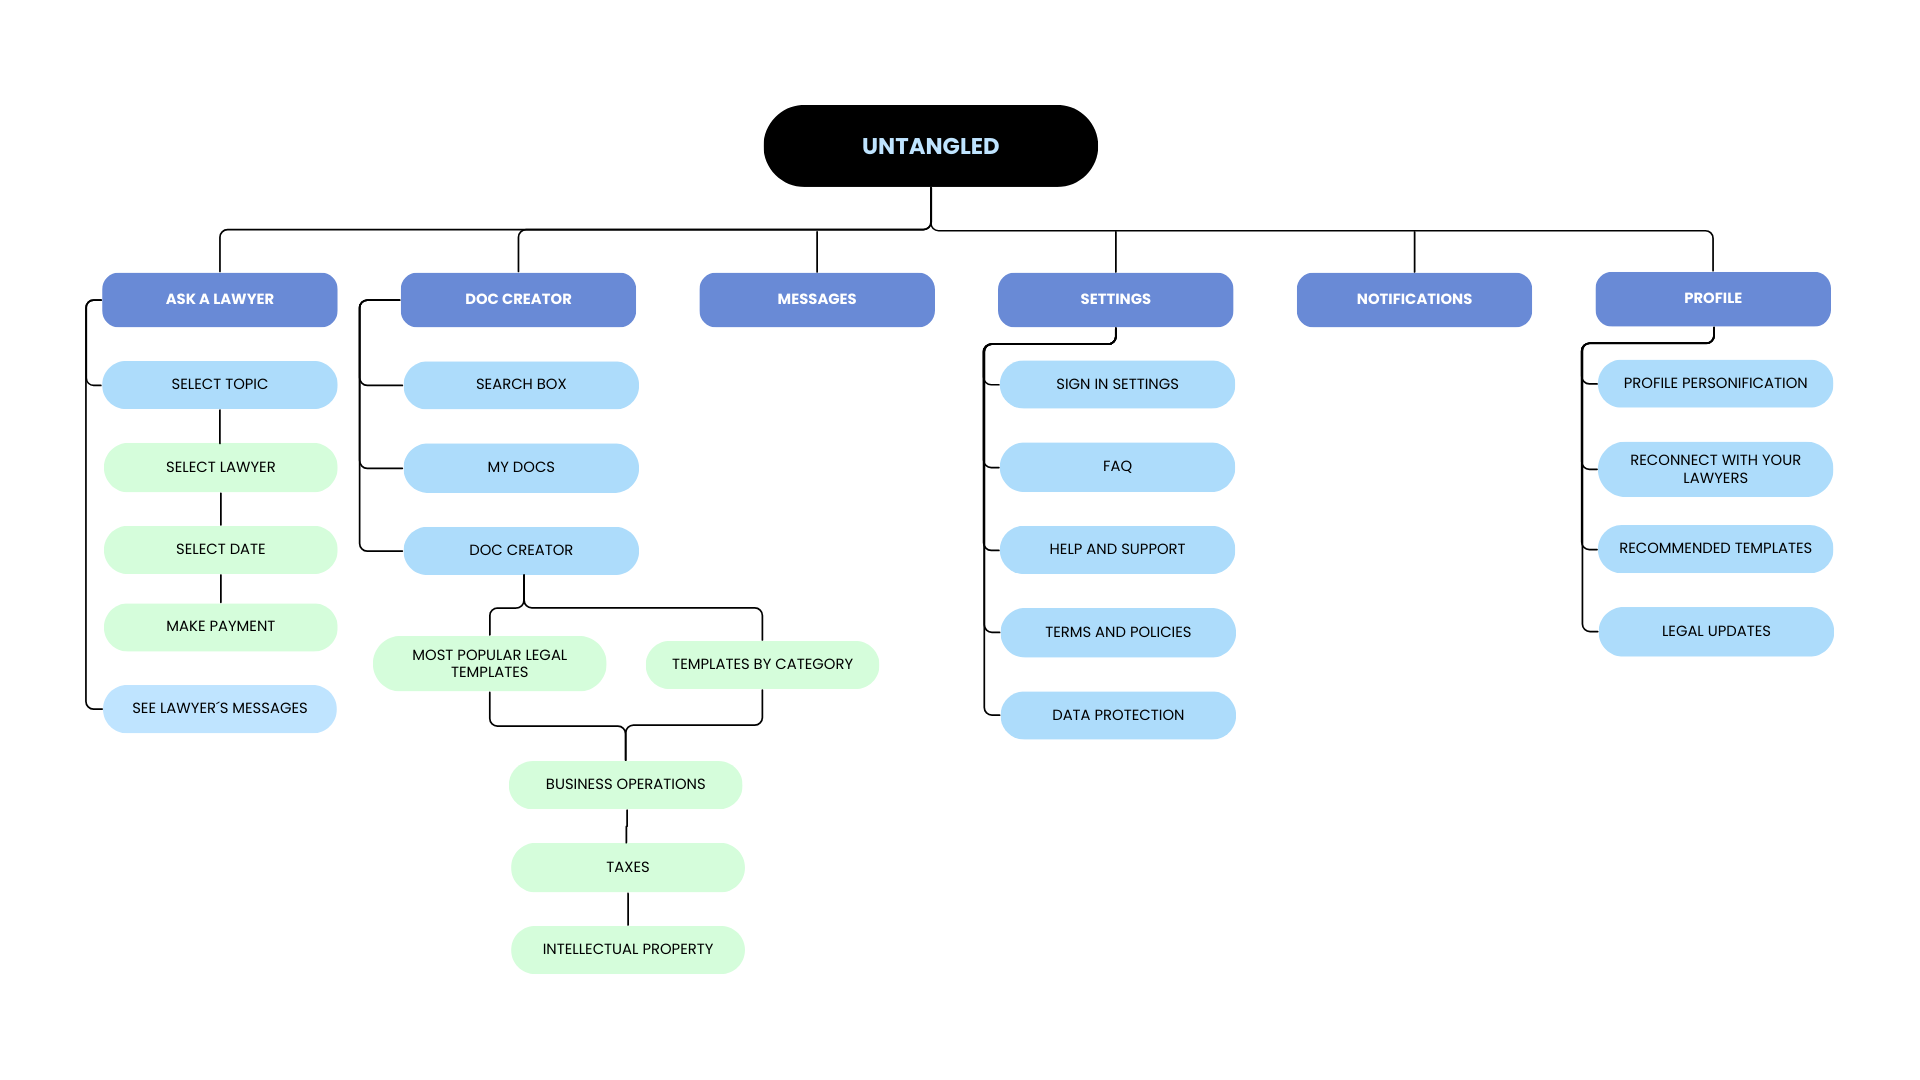
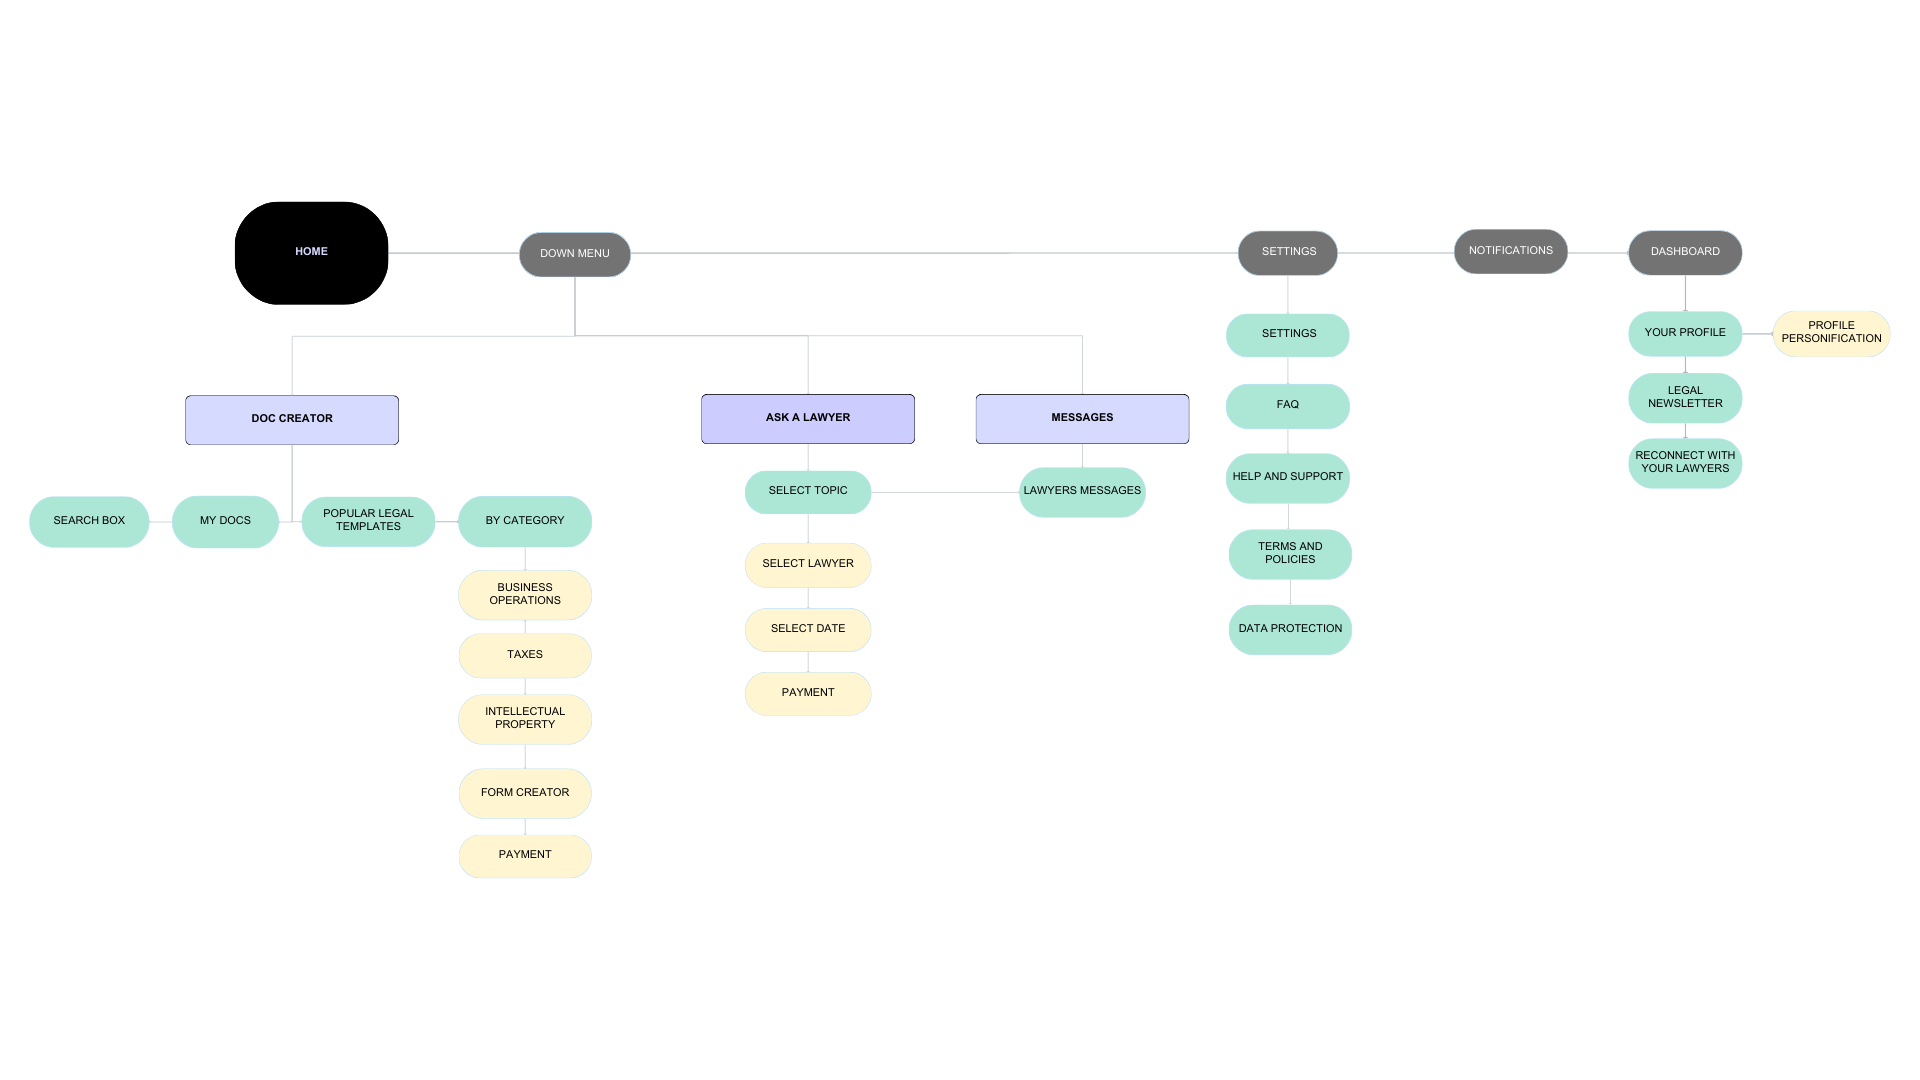
Documentation
Sitemap and use flows for legal app uploaded-

diff --git a/untangled.app.html b/untangled.app.html
@@ -237,8 +237,7 @@
               trustworthy legal advice and information, enabling entrepreneurs to address common legal questions
               efficiently, saving time
               and money.</span></blockquote>
-          <p>Subsequently, to humanize the design process, personas were developed as the focus shifted to the Ideation
-            phase.
+          <p>Subsequently, to humanize the design process, personas were developed:
           </p>
           <h3>Personas Development</h3>
           <div class="img-unt">
@@ -321,8 +320,8 @@
             <li>The exercise highlighted the need to exclude "My legal documents" and "My lawyers' answers" from the "My
               profile" section and <span class="features">remove several cards to simplify processes</span>.</li>
           </ol>
-          <p>In response to the card sorting results and an usability test, the site map has been updated three times,
-            leading to this latest version:</p>
+          <p>In response to the card sorting results and an usability test, the site map was modified  a couple times to align with user expectations of legal services, simplifying content
+            organization. Categories were minimized, enhancing the application's navigability and user comprehension:</p>
           <picture>
             <source srcset="img/untangled/sitemap/@2sitemap.png" class="container-image" />
             <img src="img/untangled/sitemap/@3sitemap.png" alt="Site Map" />
@@ -336,10 +335,8 @@
       <div class="container">
         <h2>Prototyping Solutions</h2>
         <div class="prototype">
-          <p>The site map was modified to align with user expectations of legal services, simplifying content
-            organization. Categories were minimized, enhancing the application's navigability and user comprehension.
-            This led to the development of economical paper prototypes, subsequently refined into mid and high-fidelity
-            versions.
+          <p>
+            From the site map design, inexpensive paper prototypes were developed and later refined into medium and high fidelity prototypes, as you can see below:
           </p>
           <h4>1. Onboarding</h4>
           <div class="section">
@@ -464,9 +461,7 @@
             the search bar functionality, and the option to choose meeting times.</p>
           <p>⚠ The usability test revealed critical areas for improvement in design, feature visibility, and user
             onboarding. Balancing the seriousness of legal matters with a user-friendly interface is key. Incorporating
-            direct and clear communication options will enhance user satisfaction and trust. <a
-              href="files/Rainbow Spread Sheet_ Usability Testing_compressed.pdf" target="_blank"
-              style="justify-content: left; color: #7390f9;">See Rainbow spreadsheet</a>.
+            direct and clear communication options will enhance user satisfaction and trust. 
           </p>
           <div style="padding: 20px;">
             <div class="centered-picture">
@@ -475,33 +470,32 @@
                 <img src="img/untangled/theend@2.png" alt="Untangled App" style="max-width: 60%;"/>
               </picture>
             </div>
-            <p>This is the list of errors to be addressed:</p>
-            <ol>
-              <li><b>'Create a Document' Feature</b>: Users struggle to find the feature; recommended solution is to
+            <p>The Errors to be addressed, based on the <a
+              href="files/Rainbow Spread Sheet_ Usability Testing_compressed.pdf" target="_blank"
+              style="justify-content: left; color: #7390f9;"> Rainbow spreadsheet</a>, are:</p>
+              <p><b>1. 'Create a Document' Feature</b>: Users struggle to find the feature; recommended solution is to
                 rename the
-                icon to "DocCreator" and enhance the onboarding process. </li>
-              <li><b>Locating Created Documents</b>: Difficulty in locating documents can be addressed by adding a "List
+                icon to "DocCreator" and enhance the onboarding process. </p>
+              <p><b>2. Locating Created Documents</b>: Difficulty in locating documents can be addressed by adding a "List
                 of
-                Documents Created" on the Home, "My Profile" or DocCreator category.</li>
-              <li><b>Finding Lawyers' Responses</b>: To ease access to lawyers' responses,the icon should be
-                more descriptive and add "Ask a Lawyer." </li>
-              <li><b>Identifying User Profile</b>: Users confuse the profile section with home, so it is needed to
-                differentiate profile information from, homepage content and main features.</li>
-              <li><b>Confirmation of Document Creation</b>: Uncertainty about document readiness can be resolved by
+                Documents Created" on the Home, "My Profile" or DocCreator category.</p>
+              <p><b>3. Finding Lawyers' Responses</b>: To ease access to lawyers' responses,the icon should be
+                more descriptive and add "Ask a Lawyer." </p>
+              <p><b>4. Identifying User Profile</b>: Users confuse the profile section with home, so it is needed to
+                differentiate profile information from, homepage content and main features.</p>
+              <p><b>5. Confirmation of Document Creation</b>: Uncertainty about document readiness can be resolved by
                 implementing
-                a design that visually indicates readiness. </li>
-              <li><b>Verification of Legal Document Authenticity</b>: Enhancing the layout to clearly signify the
+                a design that visually indicates readiness. </p>
+              <p><b>6. Verification of Legal Document Authenticity</b>: Enhancing the layout to clearly signify the
                 authenticity
-                of legal documents can address verification issues.</li>
-              <li><b>Clarity in Document Lists</b>: To improve document list clarity, distinct formatting and icons for
+                of legal documents can address verification issues.</p>
+              <p><b>7. Clarity in Document Lists</b>: To improve document list clarity, distinct formatting and icons for
                 document
-                titles are recommended. </li>
-              <li><b>Clarification of Meeting Type</b>: Confusion over meeting communication methods can be clarified by
-                specifying the method (e.g., Microsoft or Google Meetings). </li>
-              <li><b>Direct Contact with Lawyers</b>: Improving system visibility, potentially with a progress bar, can
-                address
-                issues in direct lawyer contact. </li>
-            </ol>
+                titles are recommended. </p>
+              <p><b>8. Clarification of Meeting Type</b>: Confusion over meeting communication methods can be clarified by
+                specifying the method (e.g., Microsoft or Google Meetings). </p>
+              <p><b>9. Direct Contact with Lawyers</b>: Improving system visibility, potentially with a progress bar, can
+                address issues in direct lawyer contact. </p>
           </div>
           <h4>Two Personas Emerged</h4>
           <p>Two user categories emerged: financially privileged entrepreneurs who value app elegance and lower-income
@@ -516,8 +510,7 @@
             properties.</p>
           <p>A color preference test was conducted to decide between the two, resulting in a strong preference for
             blue, with 83% of participants favoring it over green. Blue was thus selected for the app's design,
-            supported by
-            user feedback highlighting blue as a classic and trustworthy color.
+            supported by user feedback highlighting blue as a classic and trustworthy color.
           </p>
           <picture class="zoom">
             <source srcset="img/untangled/@1preferencetest.png" />
@@ -604,7 +597,7 @@
             <li><b>Legal Insights</b>: Time constraints limited collaboration with legal professionals, an aspect that
               could
               greatly enrich the app's offerings.</li>
-              <li><b>Time Constraints</b>: Additional time was required for the complete development of the DocsCreator feature. Also, there was an unmet need for enhanced trust in lawyers: while LinkedIn links were mostly trusted, some users recommended further validation through law firm affiliations or legal directories.</li>
+              <li><b>Time Constraints</b>: Additional time was required for the complete development of the DocsCreator feature, for more complex documentation.</li>
             </ul>
         </div>
       </div>
@@ -619,9 +612,7 @@
       </div>
     </div>
     <div class="container" style="display: flex; align-items: center; justify-content: center;">
-      <iframe style="border: 1px solid rgba(0, 0, 0, 0.1);" width="800" height="650"
-        src="https://www.figma.com/embed?embed_host=share&url=https%3A%2F%2Fwww.figma.com%2Fproto%2Fmayt7dH4EesU7YV2Mr5ch0%2FUntangled%252C-Your-Legal-Sidekick_2023%3Fnode-id%3D1070-28231%26starting-point-node-id%3D1070%253A28231%26scaling%3Dscale-down%26show-proto-sidebar%3D1%26mode%3Ddesign%26t%3DBEr6dNraRALAdP7w-1"
-        allowfullscreen></iframe>
+      <iframe style="border: 1px solid rgba(0, 0, 0, 0.1);" width="800" height="650" src="https://www.figma.com/embed?embed_host=share&url=https%3A%2F%2Fwww.figma.com%2Fproto%2Fmayt7dH4EesU7YV2Mr5ch0%2FUntangled%252C-Your-Legal-Sidekick_2023%3Ftype%3Ddesign%26node-id%3D1070-28231%26t%3Dh1f8PStEJNt7CWHj-1%26scaling%3Dscale-down%26page-id%3D0%253A1%26starting-point-node-id%3D1070%253A28231%26show-proto-sidebar%3D1%26mode%3Ddesign" allowfullscreen></iframe>
     </div>
   </main>
 
